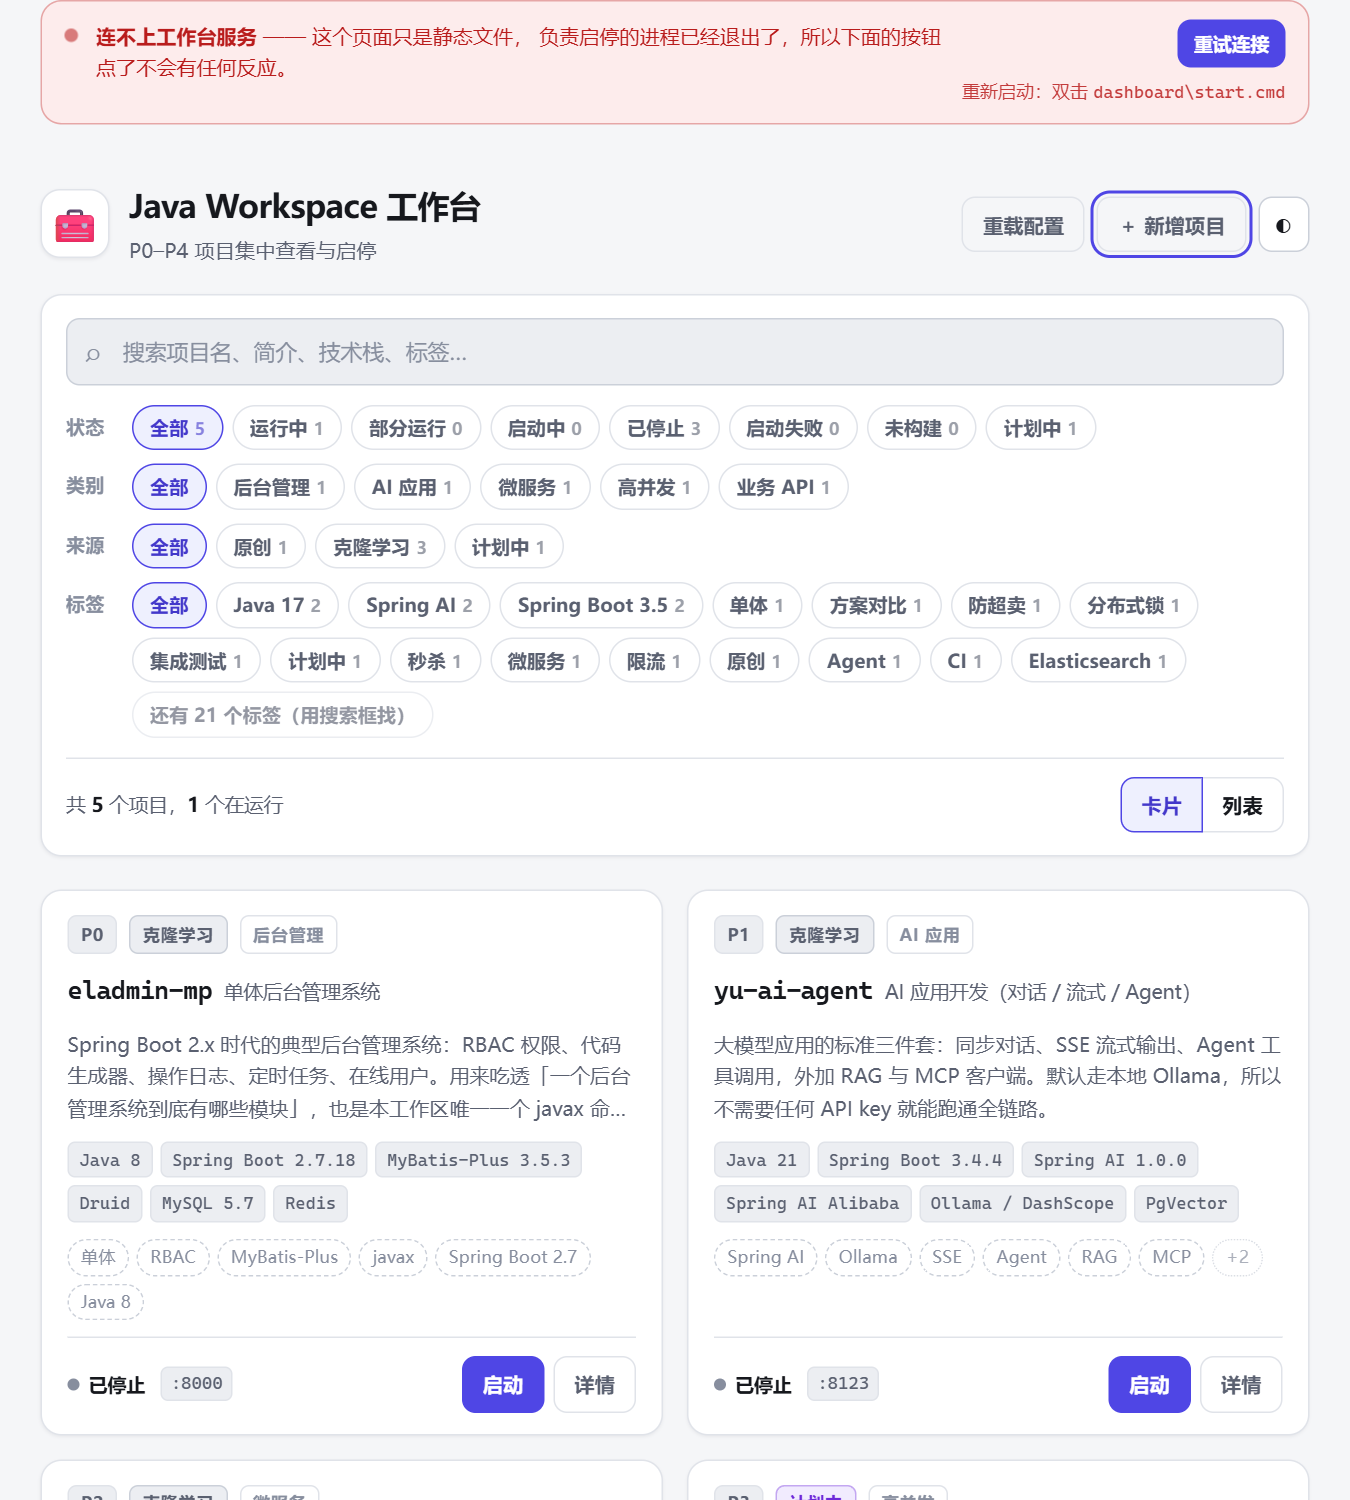
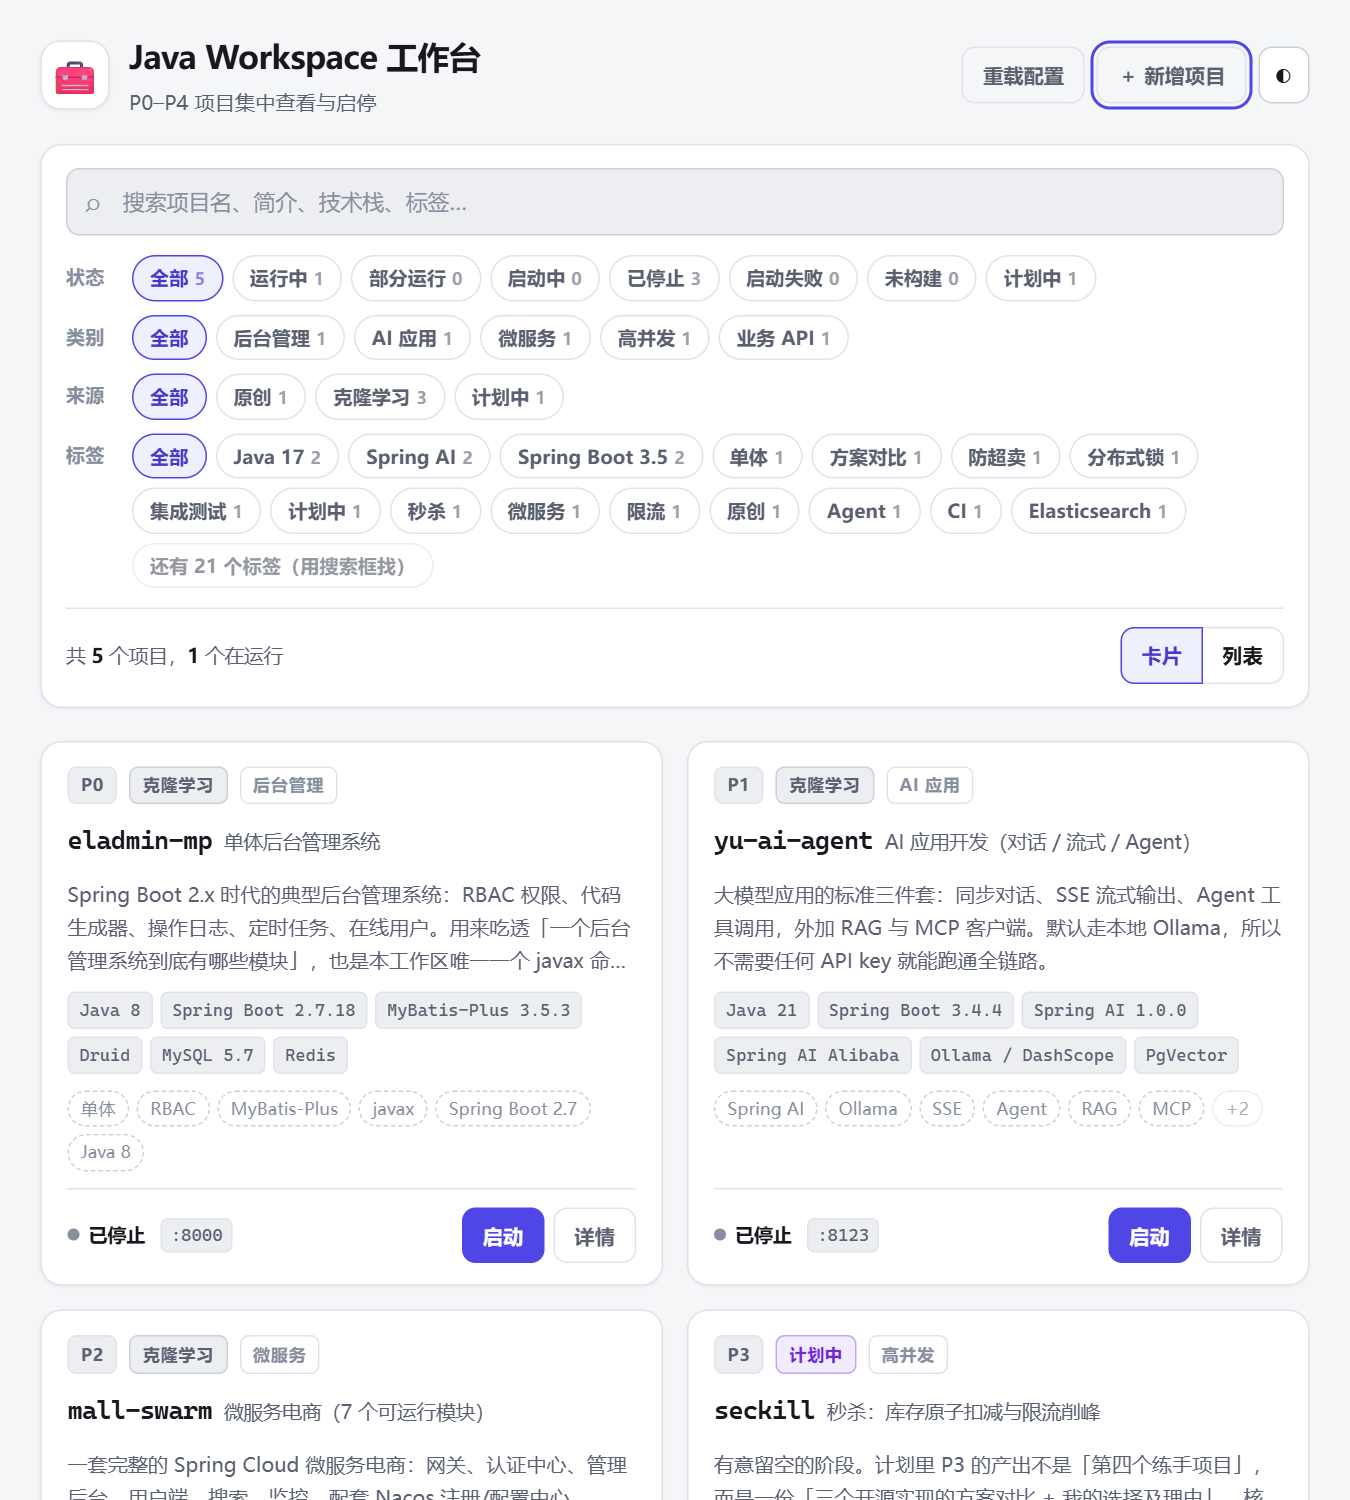
fix(dashboard): 修「后端健康时断线横幅也常驻」—— 作者样式的 display 盖掉了 hidden
这是上一个提交（4f0d980）自己带出来的 bug，已经发出去过一版。

问题：
  `.offline { display: flex }` 是**作者样式**，而 UA 样式表里的
  `[hidden] { display: none }` 一律被作者样式压过（与选择器权重无关）。
  于是 hidden 属性被无声盖掉，那条「连不上工作台服务」的红色横幅
  **在后端完全健康时也常驻页面顶部** —— 用户第一眼看到的是一条假警报。

  最阴的是它躲过了当时 63/63 的全绿断言：断言验的是
  `document.querySelector('#offline').hidden`（DOM 属性，值一直是对的），
  而坏的只有渲染结果。「状态变量是对的」和「用户看到的是对的」是两件事。

怎么发现的：
  交付后在真浏览器里对运行实例复验，用 isVisible() 而不是 .hidden 判断，
  三条断言当场红掉；再看已提交的 docs/screenshots/11-dashboard-desktop.png，
  截图里横幅赫然在顶 —— 是**已提交的截图自己**证明了 bug 存在。

修法（两条缺一不可）：
- web/style.css  基础重置区加 `[hidden] { display: none !important; }`。
  一条规则盖住整类问题，以后新增元素也不会再犯。
- verify-ui.js   断言从「验 .hidden 属性」改成「验真的看不见」：
  computed display/visibility + getClientRects().length > 0
  （后者同时排除「祖先 display:none」和「尺寸为 0」；
  比 offsetParent 可靠 —— 它对 position:fixed 恒为 null）。
- verify-ui.js   新增两条回归断言：
  · 后端健康时 #offline 必须真的看不见（带 hiddenAttr 作为诊断输出）
  · 通用兜底：页面上任何带 hidden 属性的元素都不该真的渲染出来

顺带修掉断言设计里的两处「依赖环境状态」：
- 「筛『运行中』得到的卡片都是 running」条件写的是 `runningN >= 1` ——
  验的其实是「此刻恰好有项目在跑」，是环境不是行为。改成
  「筛出的数量 = 全量里 state=running 的数量」，与是否有项目在跑无关。
- 需要前置条件的断言（P4 未运行就没有「打开」按钮）原来直接
  `ok(..., false)`，于是套件跑成什么样取决于环境。新增 skip() 单独计数，
  并在汇总里显式列出「跳过项（未验过 —— 不是通过）」。

验证：
- P4 运行中：**65 项通过，0 失败，0 跳过**
- P4 停止时：**61 项通过，0 失败，2 跳过**（跳过项已列出）
- 截图重新生成，横幅已消失（对比上一版截图可见）
- 实测 P4 完整启停循环：start 8s → running(8090 up)；stop 2s → stopped

文档：
- README.md / dashboard/README.md  断言计数 63 -> 65、坑位 13 -> 14
- dashboard/README.md  新增 §6.14「作者样式的 display 会让 hidden 属性彻底失效」

diff --git a/dashboard/verify-ui.js b/dashboard/verify-ui.js
@@ -46,6 +46,42 @@ function ok(name, cond, detail) {
 }
 function section(t) { console.log(`\n${t}`); }
 
+// ★ 有些断言**必须**先有前置条件（典型：某个项目得正在运行，否则「打开」按钮根本不存在）。
+//   这种情况既不能算通过（没验过），也不能算失败（代码没毛病）——
+//   原来这里是直接 `ok(..., false)`，于是「套件跑成什么样」取决于
+//   「此刻恰好有没有项目在跑」，一条真的界面 bug 就混在这种噪声里过去了。
+//   所以单独记一类 skip，并且**在汇总里显式报出来**，别让它悄悄消失。
+let skipped = 0;
+const skips = [];
+function skip(name, why) {
+  skipped++; skips.push(name);
+  console.log(`  [SKIP] ${name}  ← ${why}`);
+}
+
+// ★ 判断元素「是不是真的看得见」—— 必须验渲染结果，不能验 el.hidden。
+//   实测踩过：`.offline { display: flex }` 是作者样式，会盖掉 UA 样式表里的
+//   `[hidden] { display: none }`（作者样式优先于 UA，与权重无关），
+//   于是横幅在后端完全健康时也常驻在页面顶部。
+//   而 `el.hidden` 的值**一直是对的** —— 只验它就完全抓不到这个 bug。
+//   判据：computed display/visibility + 真的有盒子（getClientRects 非空，
+//   这个同时排除了「祖先 display:none」和「尺寸为 0」两种看不见）。
+const VISIBLE_SRC = sel => `(() => {
+  const el = document.querySelector(${JSON.stringify(sel)});
+  if (!el) return false;
+  const cs = getComputedStyle(el);
+  if (cs.display === 'none' || cs.visibility === 'hidden') return false;
+  return el.getClientRects().length > 0;
+})()`;
+async function visible(page, sel) {
+  return page.evaluate(VISIBLE_SRC(sel)).catch(() => false);
+}
+async function waitVisible(page, sel, timeoutMs, label) {
+  return waitFor(page, VISIBLE_SRC(sel), timeoutMs, label);
+}
+async function waitHidden(page, sel, timeoutMs, label) {
+  return waitFor(page, `!${VISIBLE_SRC(sel)}`, timeoutMs, label);
+}
+
 // 等某个条件成立。★ 第三个参数必须写 null —— 写成 {timeout:N} 会被当成
 // waitForFunction 的 arg 参数吃掉，实际用默认 30 秒，超时了还看不出原因。
 async function waitFor(page, fn, timeoutMs, label) {
@@ -93,6 +129,26 @@ async function waitFor(page, fn, timeoutMs, label) {
   const resultLine = await page.innerText('#result-line');
   ok('结果行显示总数与运行数', /共\s*5\s*个项目/.test(resultLine) && /个在运行/.test(resultLine), resultLine);
 
+  // ★ 这条是补的，而且它是一条真 bug 的回归测试。
+  //   后端健康时横幅**必须真的看不见**。原来这里只验了 `#offline` 的 hidden 属性，
+  //   而 `.offline { display: flex }` 把 UA 的 `[hidden] { display: none }` 盖掉了 ——
+  //   hidden 属性一直是对的，横幅却一直挂在页面顶上，用户第一眼就是一条假警报。
+  //   所以这里验的是「渲染出来看不见」（见 VISIBLE_JS），不是属性值。
+  ok('后端健康时不出现断线横幅（验的是真的看不见，不是 hidden 属性）',
+    !(await visible(page, '#offline')),
+    { hiddenAttr: await page.evaluate(() => document.querySelector('#offline').hidden) });
+
+  // ★ 通用兜底：页面上任何带 hidden 属性的元素都不该真的渲染出来。
+  //   一条断言覆盖整类问题，以后新增元素也不会再犯同样的错。
+  const leaked = await page.evaluate(() =>
+    [...document.querySelectorAll('[hidden]')]
+      .filter(el => {
+        const cs = getComputedStyle(el);
+        return cs.display !== 'none' && cs.visibility !== 'hidden' && el.getClientRects().length > 0;
+      })
+      .map(el => el.id || (el.className && String(el.className)) || el.tagName));
+  ok('没有任何「带 hidden 属性却仍然可见」的元素', leaked.length === 0, leaked);
+
   // ------------------------------------------------------------ 卡片内容 --
   section('二、卡片关键信息（名称/简介/技术栈/状态/来源）');
   const first = page.locator('.card').first();
@@ -132,10 +188,19 @@ async function waitFor(page, fn, timeoutMs, label) {
 
   // -------------------------------------------------------------- 筛选 --
   section('四、按状态 / 类别 / 来源 / 标签筛选');
+  // ★ 先在「全部」下数出真实运行中的数量，再切到「运行中」比对。
+  //   原来这里写的是 `runningN >= 1` —— 断言名字说的是「筛出来的卡片都是 running」，
+  //   条件却在验「此刻至少有一个项目在跑」，那是**环境状态**，不是界面行为。
+  //   结果：没项目在跑时它必红，一条真的筛选 bug 反而会被这种噪声淹没。
+  await page.locator('#chips-state .chip', { hasText: '全部' }).first().click();
+  await page.waitForTimeout(320);
+  const expectRunning = await page.locator('.card').evaluateAll(
+    els => els.filter(e => e.dataset.state === 'running').length);
   await page.locator('#chips-state .chip', { hasText: '运行中' }).first().click();
   await page.waitForTimeout(320);
   const runningN = await page.locator('.card').count();
-  ok('筛「运行中」得到的卡片都是 running', runningN >= 1, { runningN });
+  ok('筛「运行中」的卡片数 = 全量里 state=running 的数量',
+    runningN === expectRunning, { runningN, expectRunning });
   const allRunning = await page.locator('.card').evaluateAll(els => els.every(e => e.dataset.state === 'running'));
   ok('筛选结果状态一致', allRunning);
 
@@ -197,6 +262,7 @@ async function waitFor(page, fn, timeoutMs, label) {
     ok('「打开」按钮绑定到正确项目', openUrl === 'p4-exam-tracker');
   } else {
     ok('未运行的项目显示「启动」按钮', actText.includes('启动'), actText);
+    skip('运行中项目的「打开 / 停止」按钮', 'P4 当前是 stopped，按钮验不到');
   }
   ok('每张卡片都有「详情」按钮', (await page.locator('button[data-act="detail"]').count()) === 5);
 
@@ -212,7 +278,11 @@ async function waitFor(page, fn, timeoutMs, label) {
     const h = await popup.title().catch(() => '');
     ok('打开的页面确实是 exam-tracker 前端', /备考|任务/.test(h) || h.length > 0, h);
     await popup.close();
+  } else if (p4State !== 'running') {
+    // P4 没在跑 → 没有「打开」按钮 → 这条根本无从验起。算 skip，不算 fail。
+    skip('「打开」跳转地址与落地页', 'P4 未在运行；想验这条就先把它起起来再跑一遍');
   } else {
+    // P4 明明在跑却弹不出来 —— 这才是真的失败。
     ok('「打开」能弹出新窗口', false, '没有捕获到 popup');
   }
 
@@ -314,9 +384,8 @@ async function waitFor(page, fn, timeoutMs, label) {
   await page.evaluate(() => window.scrollTo(0, 0));
   await page.route(/\/api\//, route => route.abort());
   await page.click('#btn-refresh');                       // 触发一次必然失败的请求
-  const bannerUp = await waitFor(page,
-    () => !document.querySelector('#offline').hidden, 6000, '断线横幅出现');
-  ok('服务断开后挂出常驻横幅', bannerUp);
+  const bannerUp = await waitVisible(page, '#offline', 6000, '断线横幅出现');
+  ok('服务断开后挂出常驻横幅（且真的渲染出来了）', bannerUp);
 
   const offText = await page.innerText('#offline').catch(() => '');
   ok('横幅点明是「工作台服务」连不上，而不是项目起不来',
@@ -335,15 +404,18 @@ async function waitFor(page, fn, timeoutMs, label) {
 
   await page.unroute(/\/api\//);
   await page.click('#btn-offline-retry');
-  const bannerDown = await waitFor(page,
-    () => document.querySelector('#offline').hidden, 8000, '恢复后横幅收起');
-  ok('服务恢复后横幅自动收起', bannerDown);
+  const bannerDown = await waitHidden(page, '#offline', 8000, '恢复后横幅收起');
+  ok('服务恢复后横幅自动收起（同样验的是真的看不见）', bannerDown);
   const onEnabled = await page.locator('.card button[data-act="start"]:not([disabled])').count();
   ok('服务恢复后启停按钮重新可用', onEnabled >= 1, { onEnabled });
 
   // -------------------------------------------------------------- 汇总 --
   console.log('\n' + '─'.repeat(62));
-  console.log(`  通过 ${pass} 项，失败 ${fail} 项`);
+  console.log(`  通过 ${pass} 项，失败 ${fail} 项，跳过 ${skipped} 项`);
+  if (skipped) {
+    console.log('  跳过项（前置条件不具备，未验过 —— 不是通过）：');
+    skips.forEach(s => console.log('    · ' + s));
+  }
   if (fail) {
     console.log('  失败项：');
     failures.forEach(f => console.log('    · ' + f));

diff --git a/dashboard/web/style.css b/dashboard/web/style.css
@@ -93,6 +93,17 @@ html[data-theme="dark"] {
 
 * { box-sizing: border-box; }
 
+/* ★ [hidden] 必须自己兜住，不能指望浏览器。
+   UA 样式表里确实有 `[hidden] { display: none }`，但**作者样式一律优先于 UA 样式**，
+   跟选择器权重无关。所以只要给某个元素写了 `display: flex`，
+   那个元素上的 hidden 属性就彻底失效 —— 页面永远显示它。
+   实测踩过：`.offline { display: flex }` 让「连不上工作台服务」的红色横幅
+   在后端完全健康时也常驻在页面顶部，用户第一眼看到的就是一条假警报。
+   最阴的是它**不会被 DOM 断言抓到**：`el.hidden` 的值一直是对的，
+   坏的只有渲染结果。所以这里显式加 !important 兜住整类问题，
+   并且界面断言必须验「真的看不见」（offsetParent / 尺寸），不能只验 `.hidden`。 */
+[hidden] { display: none !important; }
+
 html, body { margin: 0; padding: 0; }
 
 body {

diff --git a/dashboard/README.md b/dashboard/README.md
@@ -50,7 +50,7 @@ dashboard/
 │   ├── index.html
 │   ├── style.css     深浅色 + 响应式，无 CSS 框架
 │   └── app.js        无框架、无构建步骤
-├── verify-ui.js      用真浏览器跑 63 项界面断言
+├── verify-ui.js      用真浏览器跑 65 项界面断言
 ├── start.cmd         一键启动：找 Python / 起服务 / 落日志 / 已运行就只开浏览器
 └── stop.cmd          按端口停止，幂等
 ```
@@ -153,7 +153,7 @@ dashboard/
 ## 5. 验证
 
 ```bash
-# 界面（真浏览器，63 项断言，含三个断点的响应式截图）
+# 界面（真浏览器，65 项断言，含三个断点的响应式截图）
 NODE_PATH="C:/Users/Administrator/.workbuddy-ai/binaries/node/workspace/node_modules" \
   "C:/Users/Administrator/.workbuddy-ai/binaries/node/versions/22.22.2-3/node.exe" \
   dashboard/verify-ui.js
@@ -176,7 +176,7 @@ NODE_PATH="C:/Users/Administrator/.workbuddy-ai/binaries/node/workspace/node_mod
 
 ---
 
-## 6. 设计上踩过的坑（13 条，都不是猜的）
+## 6. 设计上踩过的坑（14 条，都不是猜的）
 
 > **6.9–6.12 是同一批发现的，值得单独说一句。**
 > 它们只在**从普通 Windows 命令行启动**时才出现：WorkBuddy 的 bash 会注入
@@ -409,6 +409,54 @@ await page.click('#btn-offline-retry');
 
 **注意把它放在「页面没有 JS 报错」那条断言之后**：fetch 失败会在控制台留一条 error，
 放前面会把那条断言弄脏。
+
+### 6.14 作者样式的 `display` 会让 `hidden` 属性彻底失效 ★
+
+**这是 6.13 那个断线横幅自己带出来的 bug，而且已经发出去过一版。**
+
+`.offline` 为了横向排列写了 `display: flex`。而 UA 样式表里虽然确实有
+`[hidden] { display: none }`，**作者样式一律优先于 UA 样式，跟选择器权重无关** ——
+于是 `hidden` 属性被无声地盖掉，那条「连不上工作台服务」的红色横幅
+**在后端完全健康时也常驻在页面顶部**。用户打开页面第一眼看到的是一条假警报。
+
+最阴的地方是**它不会被 DOM 断言抓到**：
+
+```js
+// ✗ 这样验永远抓不到 —— el.hidden 的值一直是 true，坏的只有渲染结果
+ok('横幅是隐藏的', await page.evaluate(() => document.querySelector('#offline').hidden));
+
+// ✓ 要验「真的看不见」：computed display/visibility + 真的有盒子
+const visible = sel => `(() => {
+  const el = document.querySelector(${JSON.stringify(sel)});
+  if (!el) return false;
+  const cs = getComputedStyle(el);
+  if (cs.display === 'none' || cs.visibility === 'hidden') return false;
+  return el.getClientRects().length > 0;   // 同时排除「祖先 display:none」和「尺寸为 0」
+})()`;
+```
+
+`getClientRects().length > 0` 是关键 —— 它同时排除了「自己 `display:none`」
+和「祖先 `display:none`」两种看不见，比只看 `offsetParent` 可靠
+（`offsetParent` 对 `position: fixed` 的元素恒为 `null`）。
+
+修法是两条，缺一不可：
+
+1. **CSS 里自己兜住**，别指望浏览器：
+   ```css
+   [hidden] { display: none !important; }
+   ```
+   放在基础重置区。一条规则盖住整类问题，以后新增元素也不会再犯。
+2. **断言改验渲染结果**，并且加一条**通用兜底**：
+   ```js
+   // 页面上任何带 hidden 属性的元素都不该真的渲染出来
+   [...document.querySelectorAll('[hidden]')].filter(el => {
+     const cs = getComputedStyle(el);
+     return cs.display !== 'none' && cs.visibility !== 'hidden' && el.getClientRects().length > 0;
+   })
+   ```
+
+> **教训**：「状态变量是对的」和「用户看到的是对的」是两件事。
+> 只验前者，就会得到一套全绿但页面明显有问题的断言 —— 这一版就是这么发出去的。
 
 ---
 

diff --git a/README.md b/README.md
@@ -35,7 +35,7 @@
 >
 > **本工作区自己写的工具**：**[dashboard/](dashboard/)** —— 项目工作台。
 > 一个页面看完 P0–P4 的状态，能筛选能搜索，能真的把项目起起来。
-> 零第三方依赖（标准库 `http.server` + 原生 JS），63 项浏览器断言全通过。
+> 零第三方依赖（标准库 `http.server` + 原生 JS），65 项浏览器断言全通过。
 
 ---
 
@@ -132,11 +132,11 @@ java-workspace\
 │   └── run-p2.md                ← P2 mall-swarm 启动手册
 │
 ├── dashboard\                   ← ★ 本工作区自研：项目工作台（见第 10 节）
-│   ├── README.md                ← 用法 + 加新项目 + 设计上踩过的 13 个坑
+│   ├── README.md                ← 用法 + 加新项目 + 设计上踩过的 14 个坑
 │   ├── projects.json            ← 声明式项目清单：加项目只改这个文件
 │   ├── server.py                ← 零依赖本地服务（标准库 http.server）
 │   ├── start.cmd / stop.cmd     ← 一键启动 / 按端口停止（纯 ASCII + CRLF）
-│   ├── verify-ui.js             ← 真浏览器 63 项界面断言 + 三断点截图
+│   ├── verify-ui.js             ← 真浏览器 65 项界面断言 + 三断点截图
 │   └── web\                     ← index.html / style.css / app.js（无框架无构建）
 │
 ├── tools\                       ← 验证与自动化工具（Python）
@@ -430,7 +430,7 @@ python dashboard/server.py        # 打开 http://127.0.0.1:8990/
 | P2 mall-swarm | 166s | 含自动拉起 5 个中间件，7 个模块全部就绪 |
 | P3 seckill | — | 拒绝启动并说明原因（还没有代码） |
 
-界面验证：`dashboard/verify-ui.js`，真浏览器 **63 项断言全通过**，
+界面验证：`dashboard/verify-ui.js`，真浏览器 **65 项断言全通过**，
 输出桌面/平板/手机/深色四档截图到 `docs/screenshots/`。
 
 ### ⚠ 两个必须知道的环境冲突
